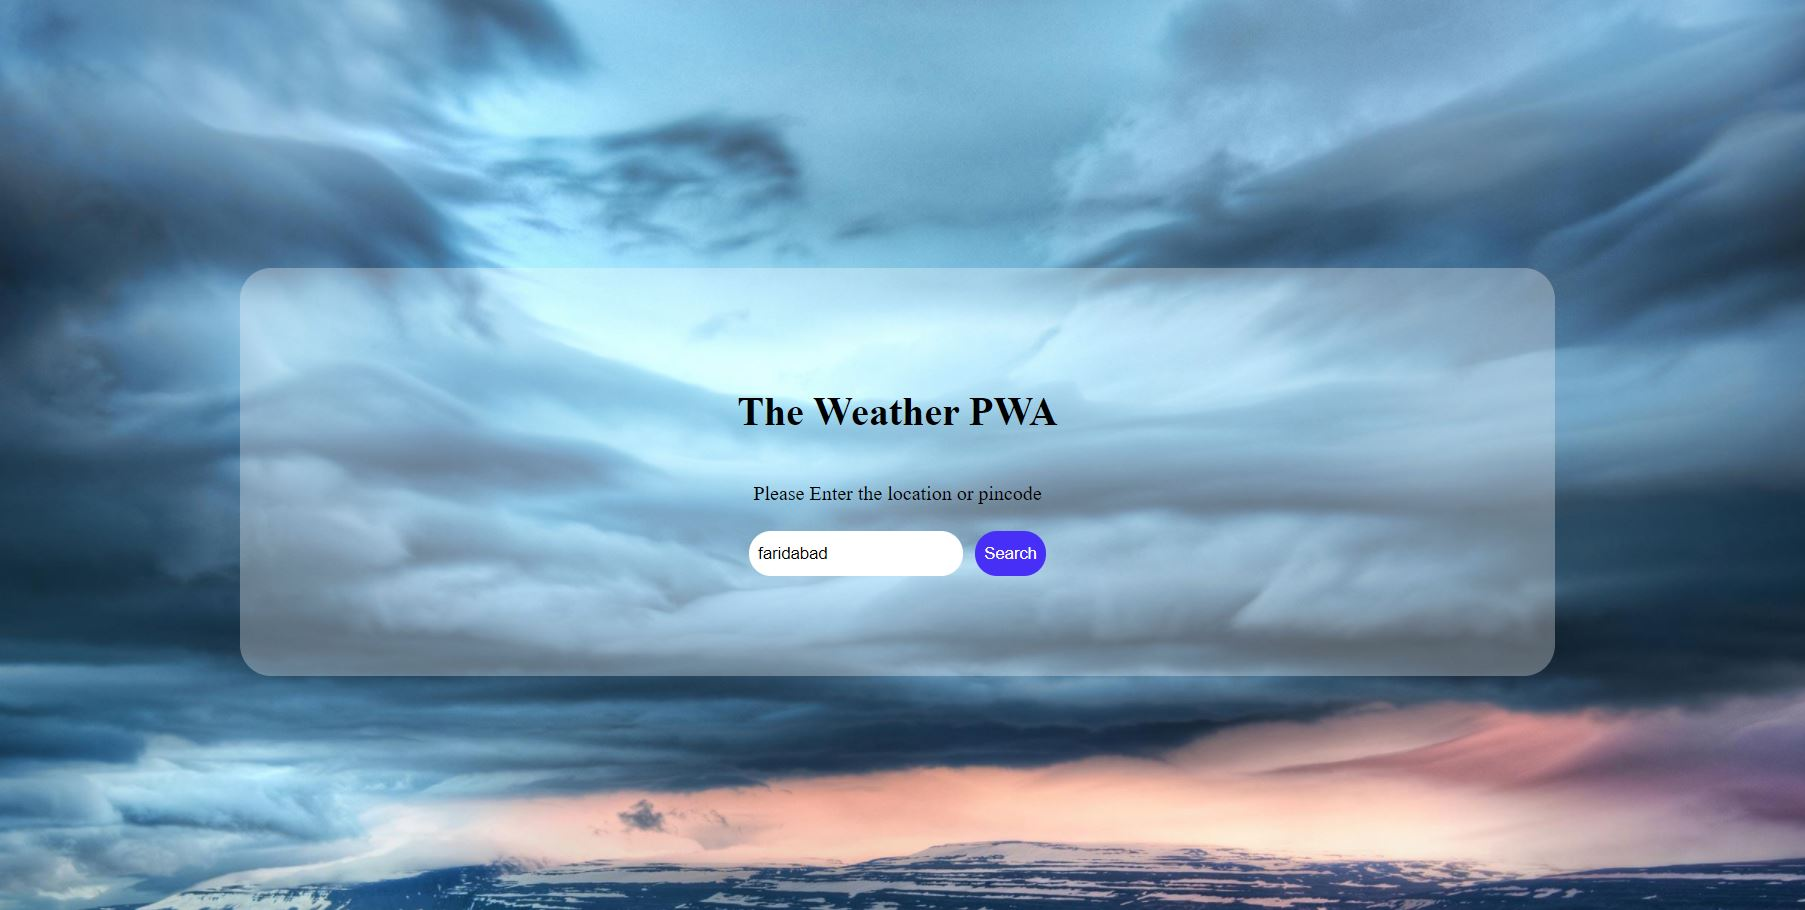
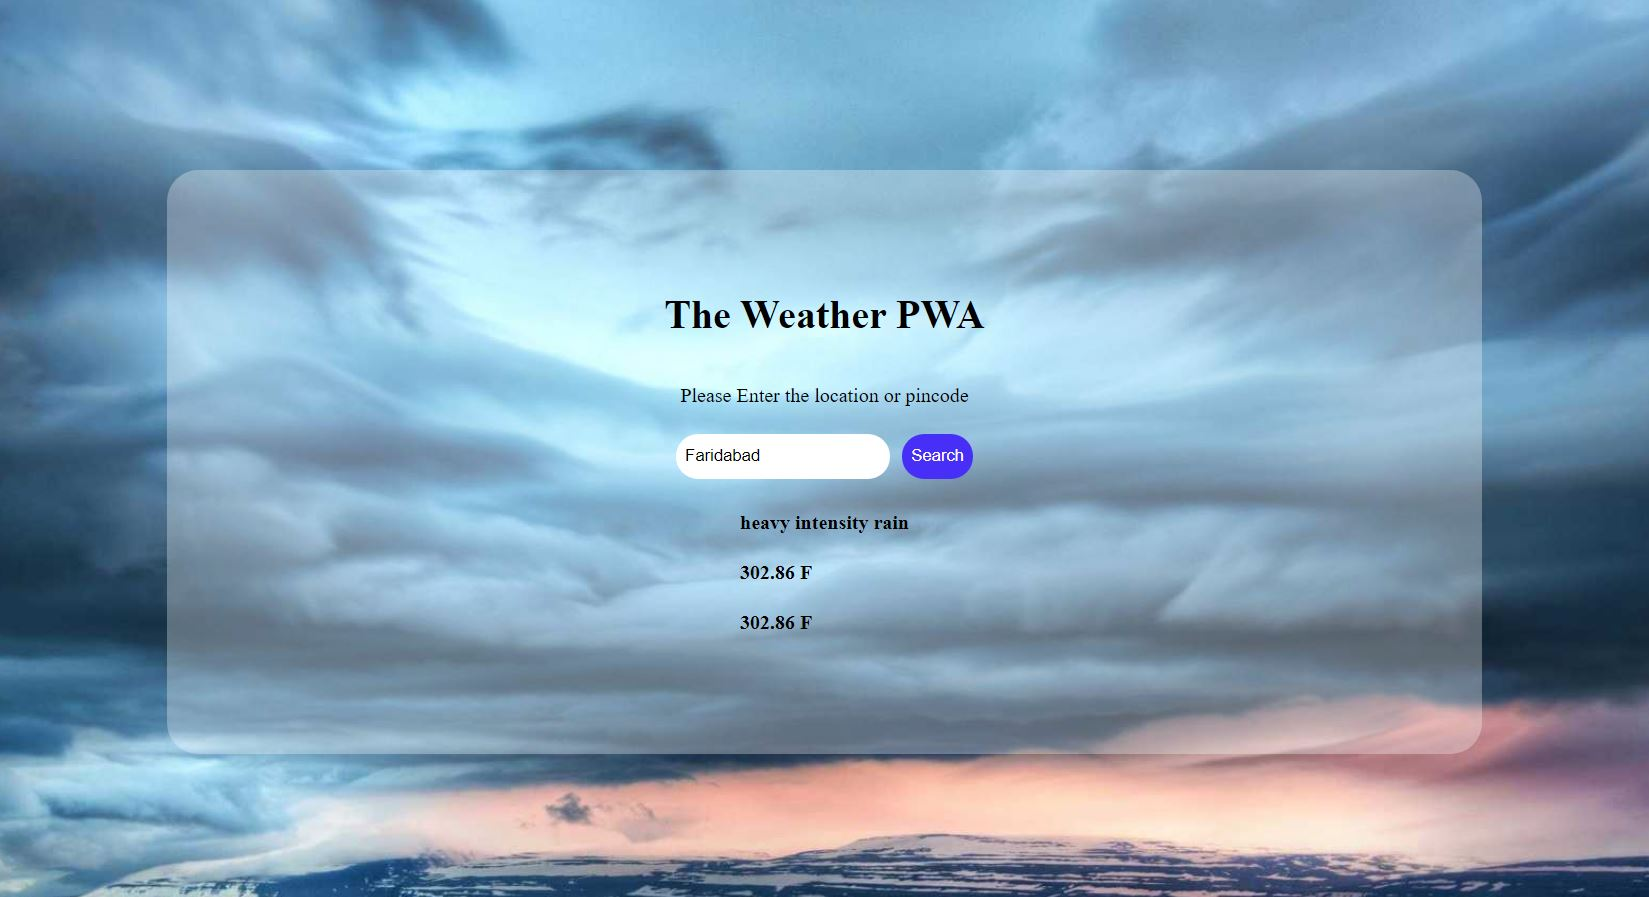
update images and ui

diff --git a/contact.html b/contact.html
@@ -1,0 +1,28 @@
+<html>
+    <head>
+        <title>Contact me</title>
+        <link rel="stylesheet" href="style.css">
+    </head>
+    <body>
+        <section class="contact-us">
+            <div class="circle"></div>
+            <div class="contact-head">
+                Contact Me
+            </div>
+            <div class="contact-details">
+                <div class="contact-address">
+                    <h3>Address</h3>
+                    <p> House no 6, Block 5, Srping Field Colony, Sector 31, Faridabad, Haryana, 121003, INDIA </p>
+                    <h4>Phone No</h4>
+                    <p>+91 9810345977</p>
+                </div>
+                <div class="contact-map">
+                    <iframe width="520" height="400" frameborder="0" scrolling="no" marginheight="0" marginwidth="0" id="gmap_canvas" src="https://maps.google.com/maps?width=520&amp;height=400&amp;hl=en&amp;q=spring%20field%20colony%20faridabad+(Praveen%20Chaudhary)&amp;t=&amp;z=12&amp;ie=UTF8&amp;iwloc=B&amp;output=embed"></iframe>
+                    <a href='https://www.embed-map.net/'>embedded google maps</a> 
+                </div>
+            </div>
+            <div class="free">Feel Free to Contact</div>
+        </section>
+        <script type='text/javascript' src='https://embedmaps.com/google-maps-authorization/script.js?id=9d8cad6fa67d4b16193c445f096f9de6a45846d7'></script>
+    </body>
+</html>

diff --git a/index.html b/index.html
@@ -24,22 +24,28 @@
         />
         <button type="submit" id="submit-button">Search</button>
       </div>
+      <div class="details">
+        <h2 id="desc"></h2>
+        <h2 id="max-temp"></h2>
+        <h2 id="min-temp"></h2>
+      </div>
     </div>
     <script
-      src="https://code.jquery.com/jquery-3.6.0.min.js"
-      integrity="sha256-/xUj+3OJU5yExlq6GSYGSHk7tPXikynS7ogEvDej/m4="
-      crossorigin="anonymous"
+      src="https://cdnjs.cloudflare.com/ajax/libs/jquery/3.6.0/jquery.min.js"
     ></script>
     <script>
-      const APIkey = "";
+      const APIkey = "Enter your key";
 
       $("#submit-button").click(function () {
         var cityName = document.getElementById("weather-search").value;
         console.log(cityName);
         $.get(
-          `api.openweathermap.org/data/2.5/weather?q=${cityName}&appid=${APIkey}`,
+          `http://api.openweathermap.org/data/2.5/weather?q=${cityName}&appid=${APIkey}`,
           function (data, status) {
-            alert("Data: " + data + "\nStatus: " + status);
+            console.log(data);
+            document.getElementById("desc").innerText=data['weather'][0]['description']
+            document.getElementById("max-temp").innerText=data['main']['temp_max']+" F"
+            document.getElementById("min-temp").innerText=data['main']['temp_max']+" F"
           }
         );
       });
